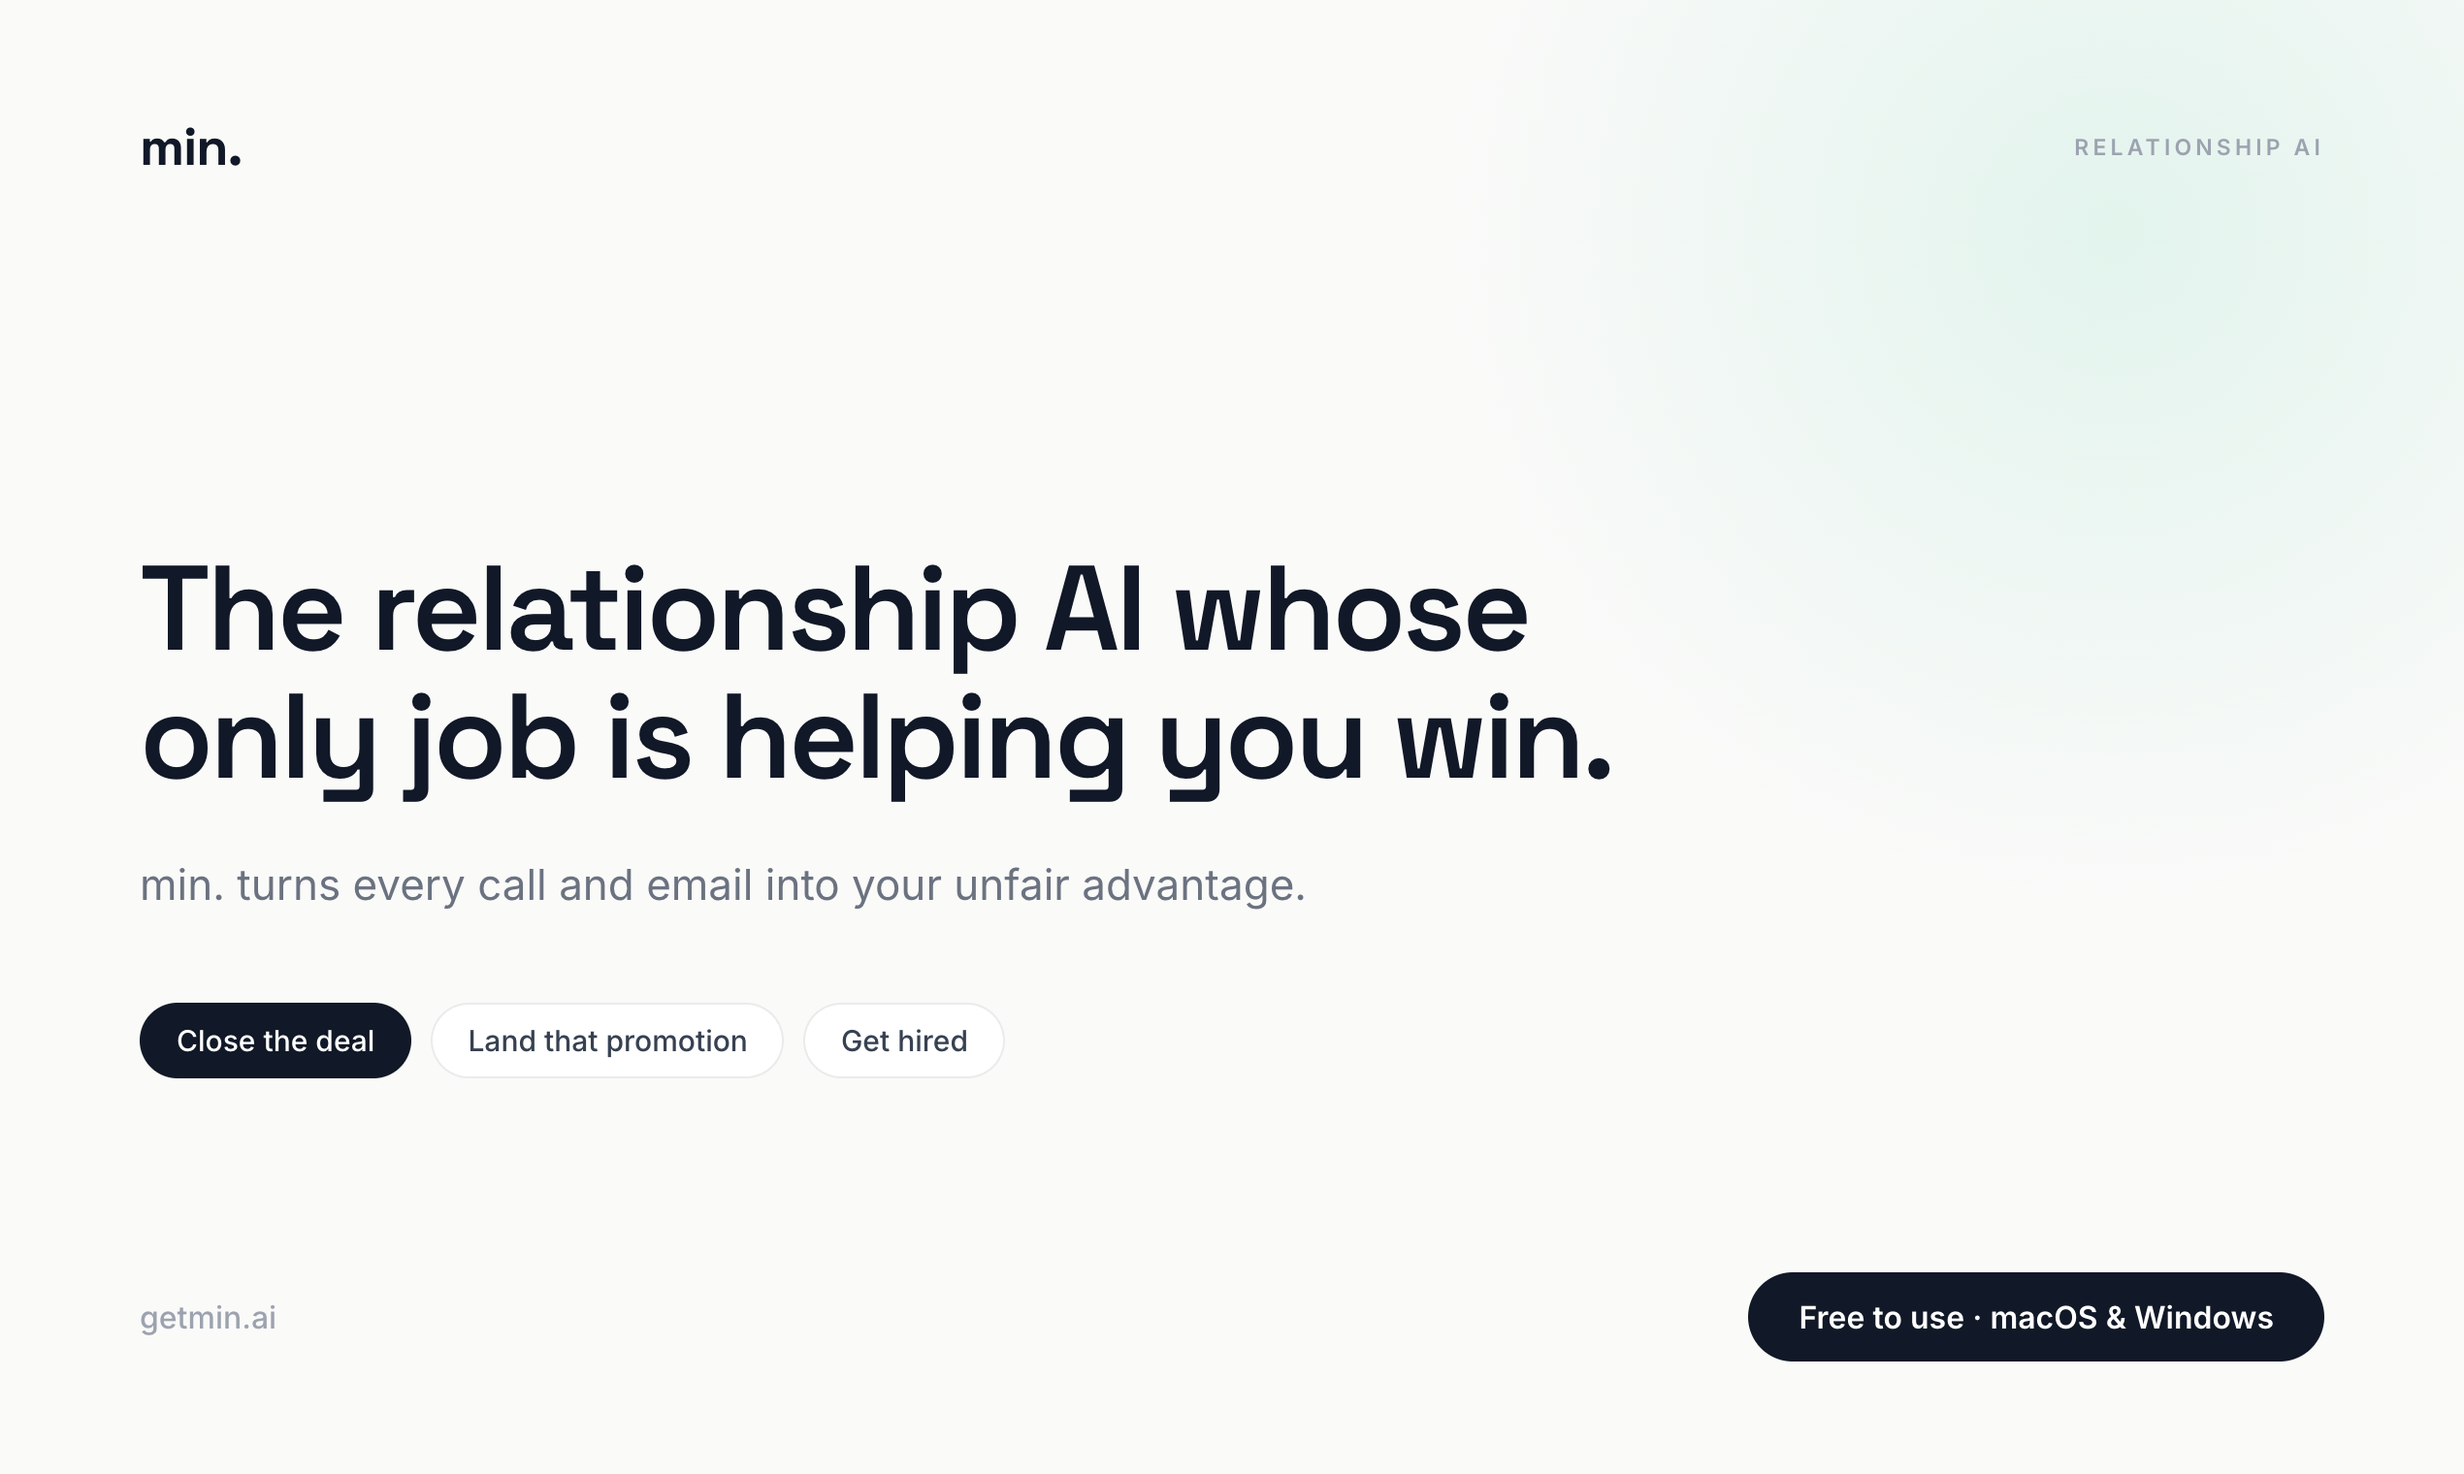
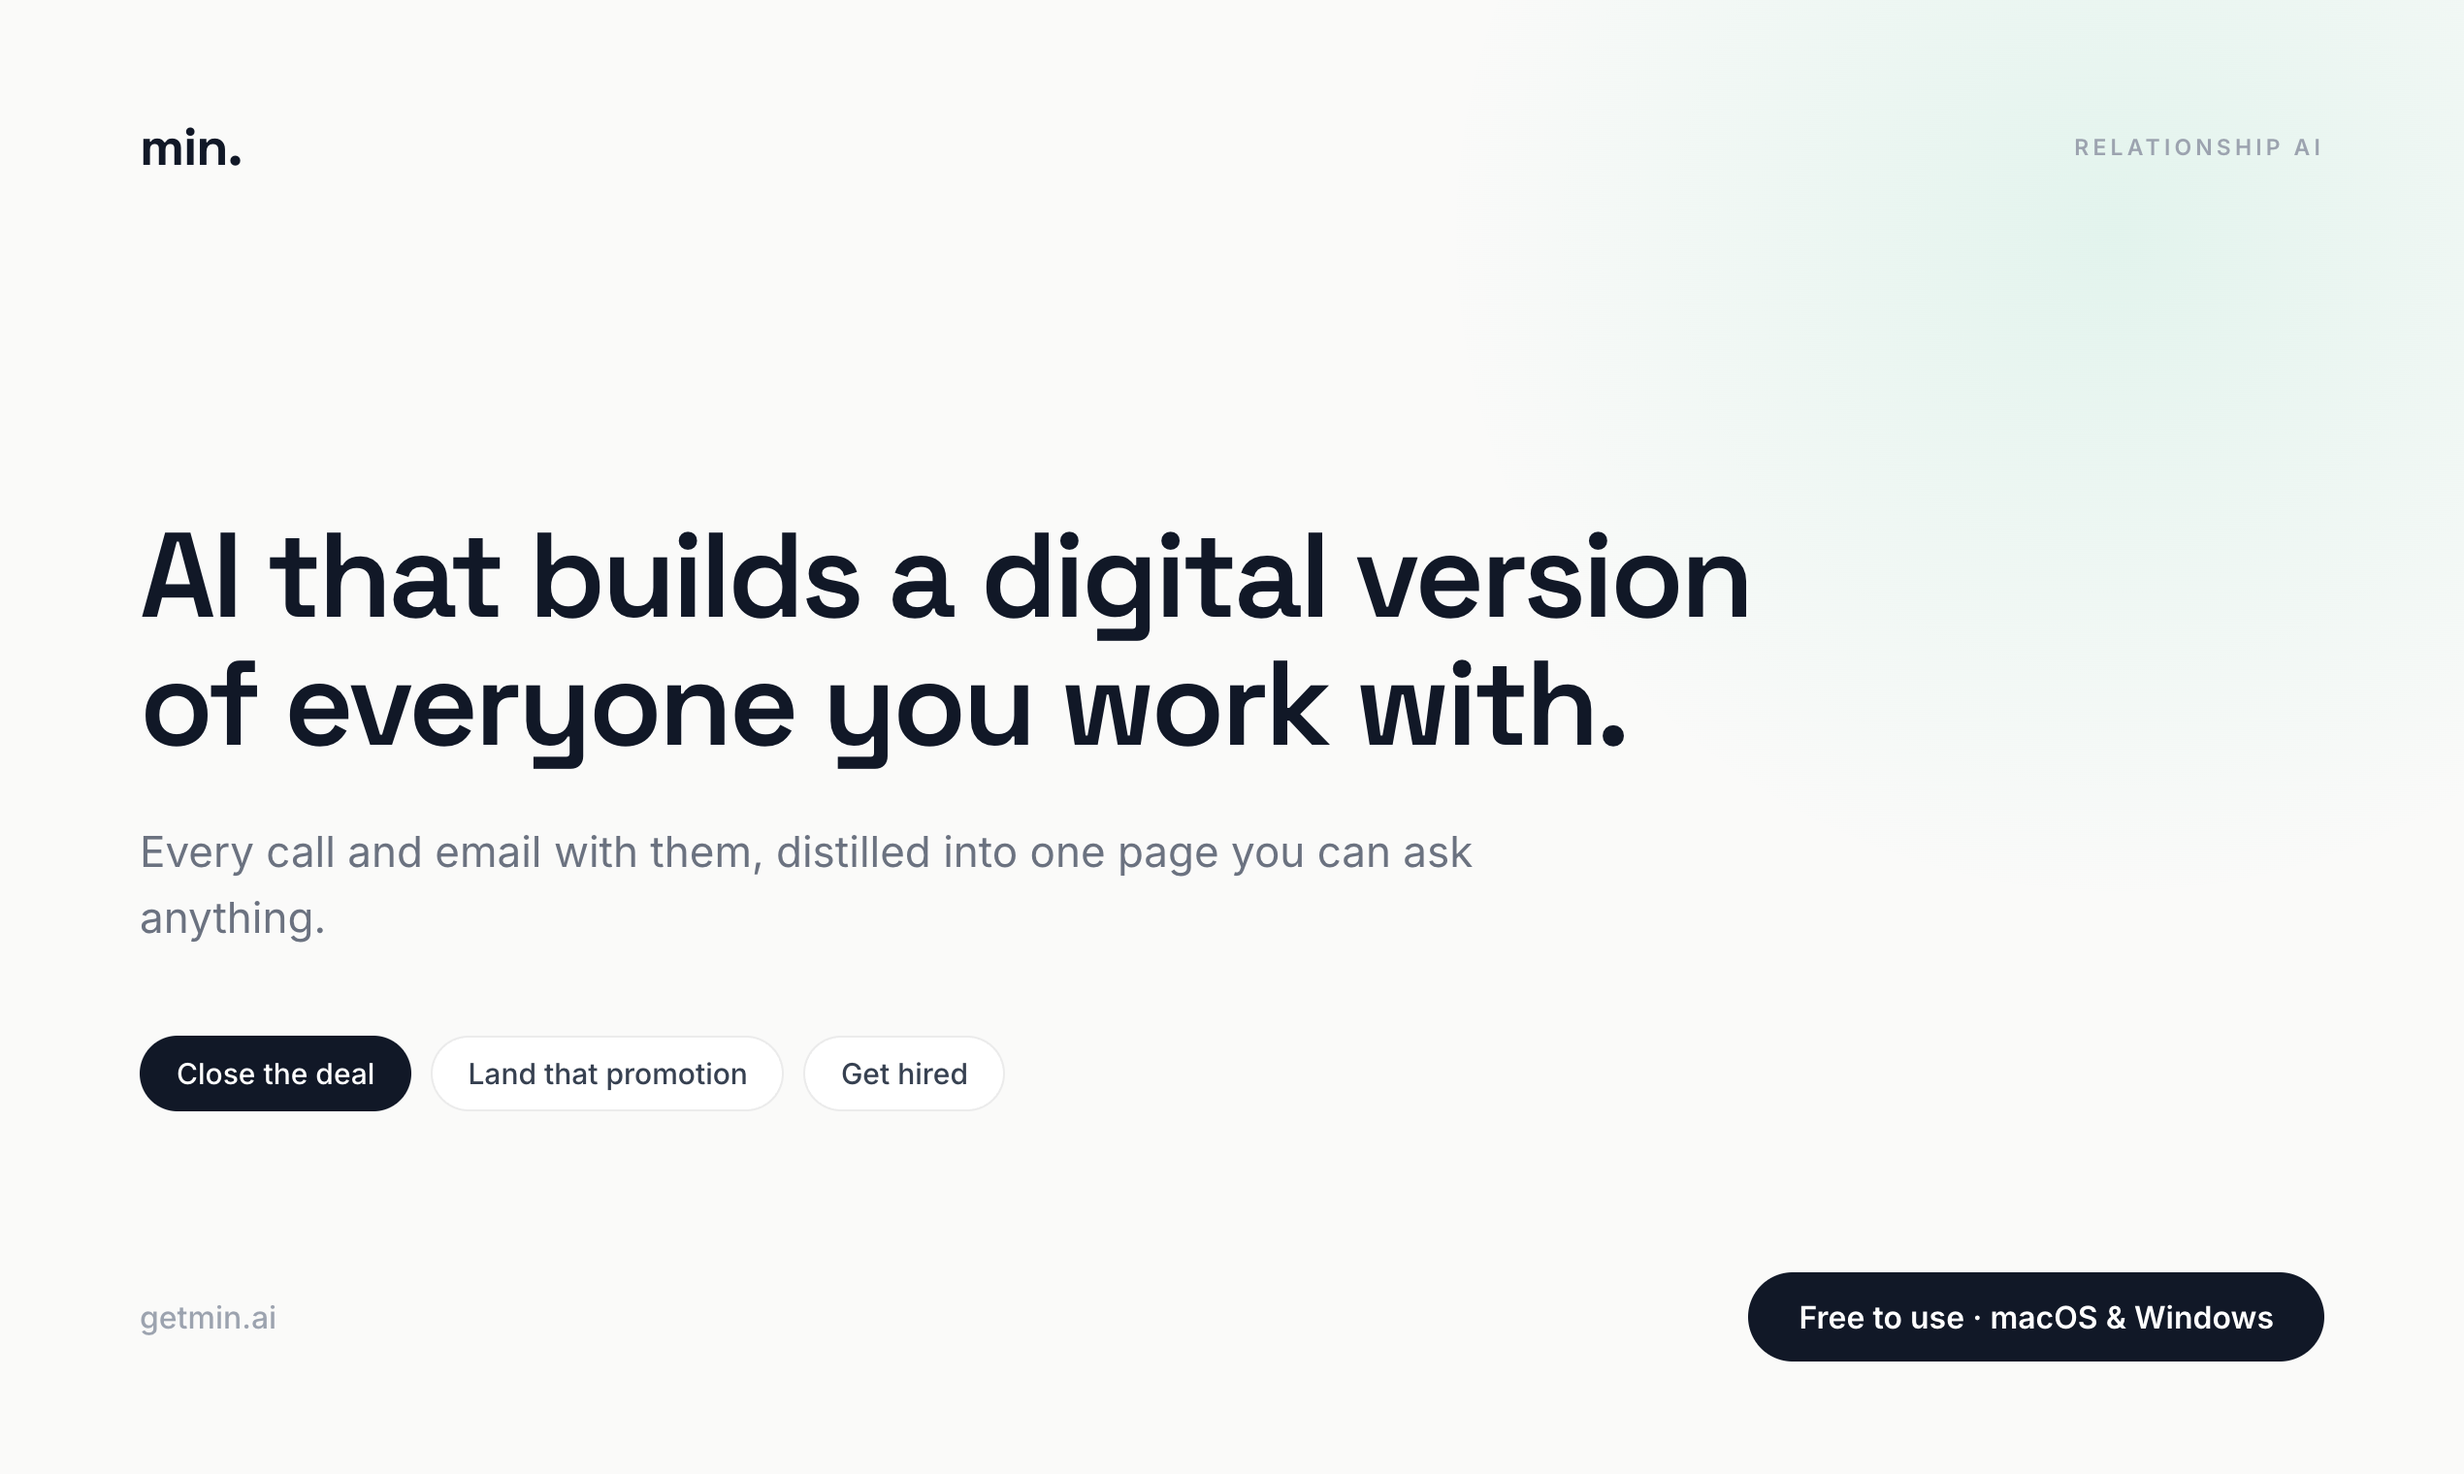
Retune the launch gallery to the digital-version line
New tagline: "AI that builds a digital version of everyone you work with."
Two slides had to change, and they are the two that carry it.

Slide 1 leads with the line and the sub-line now supplies the mechanism the
headline implies, since "digital version" raises "of what, built from what?"
immediately. The outcome triplet moves down to the chips where it belongs.

Slide 2 delivers the promise by naming it: "This is Jordan's digital version."
That also forced a real fix. The headline names one person while the card was
showing a three-person group, which reads as a mismatch the moment you say
"Jordan's". It is a single-person capsule now.

The footer of that slide sets the boundary a twin framing invites someone to
cross: built only from your calls and emails with him. Worth being explicit,
because the one time this framing was pitched to a customer they immediately
asked it something outside that boundary.

Slide 4 becomes the proof of the verb. "Builds" is now load-bearing in the
tagline, so the objection is who does the building: "You never build it. It
builds itself."

Slides 5 and 6 keep their headlines and just tie their footers back to the
line, so the gallery repeats one idea instead of five adjacent ones.

Changed region(s): [[0.0622, 0.3401, 0.7154, 0.6493], [0.0311, 0.6803, 0.311, 0.773], [0.3421, 0.6803, 0.4043, 0.7421]]

diff --git a/scripts/ph-slides.html b/scripts/ph-slides.html
@@ -190,9 +190,9 @@
 
   <div class="body">
 <div style="margin-top:88px; max-width:960px;">
-    <h1>The relationship AI whose<br/>only job is helping you win.</h1>
+    <h1>AI that builds a digital version<br/>of everyone you work with.</h1>
     <p class="sub" style="margin-top:26px; max-width:720px; font-size:22px;">
-      min. turns every call and email into your unfair advantage.
+      Every call and email with them, distilled into one page you can ask anything.
     </p>
   </div>
 
@@ -213,8 +213,8 @@
 <section class="slide" id="s2">
   <div class="top">
     <div>
-      <div class="eyebrow" style="margin-bottom:12px;">The capsule</div>
-      <h2>One page on the people<br/>deciding your outcome.</h2>
+      <div class="eyebrow" style="margin-bottom:12px;">The digital version</div>
+      <h2>This is Jordan's<br/>digital version.</h2>
     </div>
     <div class="wordmark" style="opacity:0.35;">min.</div>
   </div>
@@ -226,13 +226,12 @@
         <div class="avatars">
           <img src="../public/avatars/you.jpg" alt="" />
           <img src="../public/avatars/jordan.jpg" alt="" />
-          <img src="../public/avatars/sam.jpg" alt="" />
         </div>
         <div>
           <div style="font-family:'Space Grotesk'; font-weight:600; font-size:21px; letter-spacing:-0.01em;">
-            You, Jordan &amp; Sam
+            You &amp; Jordan Lee
           </div>
-          <div class="meta">Founder &amp; CEO, Ops lead · Aperture · 3 calls · 14 emails · since May</div>
+          <div class="meta">Founder &amp; CEO · Aperture · 3 calls · 14 emails · since May</div>
         </div>
         <div style="margin-left:auto;"><span class="pill-badge">Aperture: $12K pilot</span></div>
       </div>
@@ -264,7 +263,7 @@
 
   </div>
   <div class="foot">
-    <div class="url">Every line expands into the call or email it came from.</div>
+    <div class="url">Built only from your calls and emails with him. Every line expands into its source.</div>
     <div class="url" style="color:var(--dim); font-weight:600;">getmin.ai</div>
   </div>
 </section>
@@ -316,8 +315,8 @@
 <section class="slide" id="s4">
   <div class="top">
     <div>
-      <div class="eyebrow" style="margin-bottom:12px;">Setup</div>
-      <h2>No meeting bots.<br/>No data entry. Ever.</h2>
+      <div class="eyebrow" style="margin-bottom:12px;">How it builds</div>
+      <h2>You never build it.<br/>It builds itself.</h2>
     </div>
     <div class="wordmark" style="opacity:0.35;">min.</div>
   </div>
@@ -414,7 +413,7 @@
   </div>
 
   <div class="foot">
-    <div class="url">Works in Claude Code, Cursor, and any MCP client.</div>
+    <div class="url">The digital version, wherever you already work. Claude Code, Cursor, any MCP client.</div>
     <div class="url" style="color:var(--dim); font-weight:600;">getmin.ai</div>
   </div>
 </section>
@@ -444,7 +443,7 @@
   </div>
 
   <div class="foot">
-    <div class="url">People, companies and the threads between them. Built automatically.</div>
+    <div class="url">Every digital version you have, and how they connect. Built automatically.</div>
     <div class="url" style="color:var(--dim); font-weight:600;">getmin.ai</div>
   </div>
 </section>
